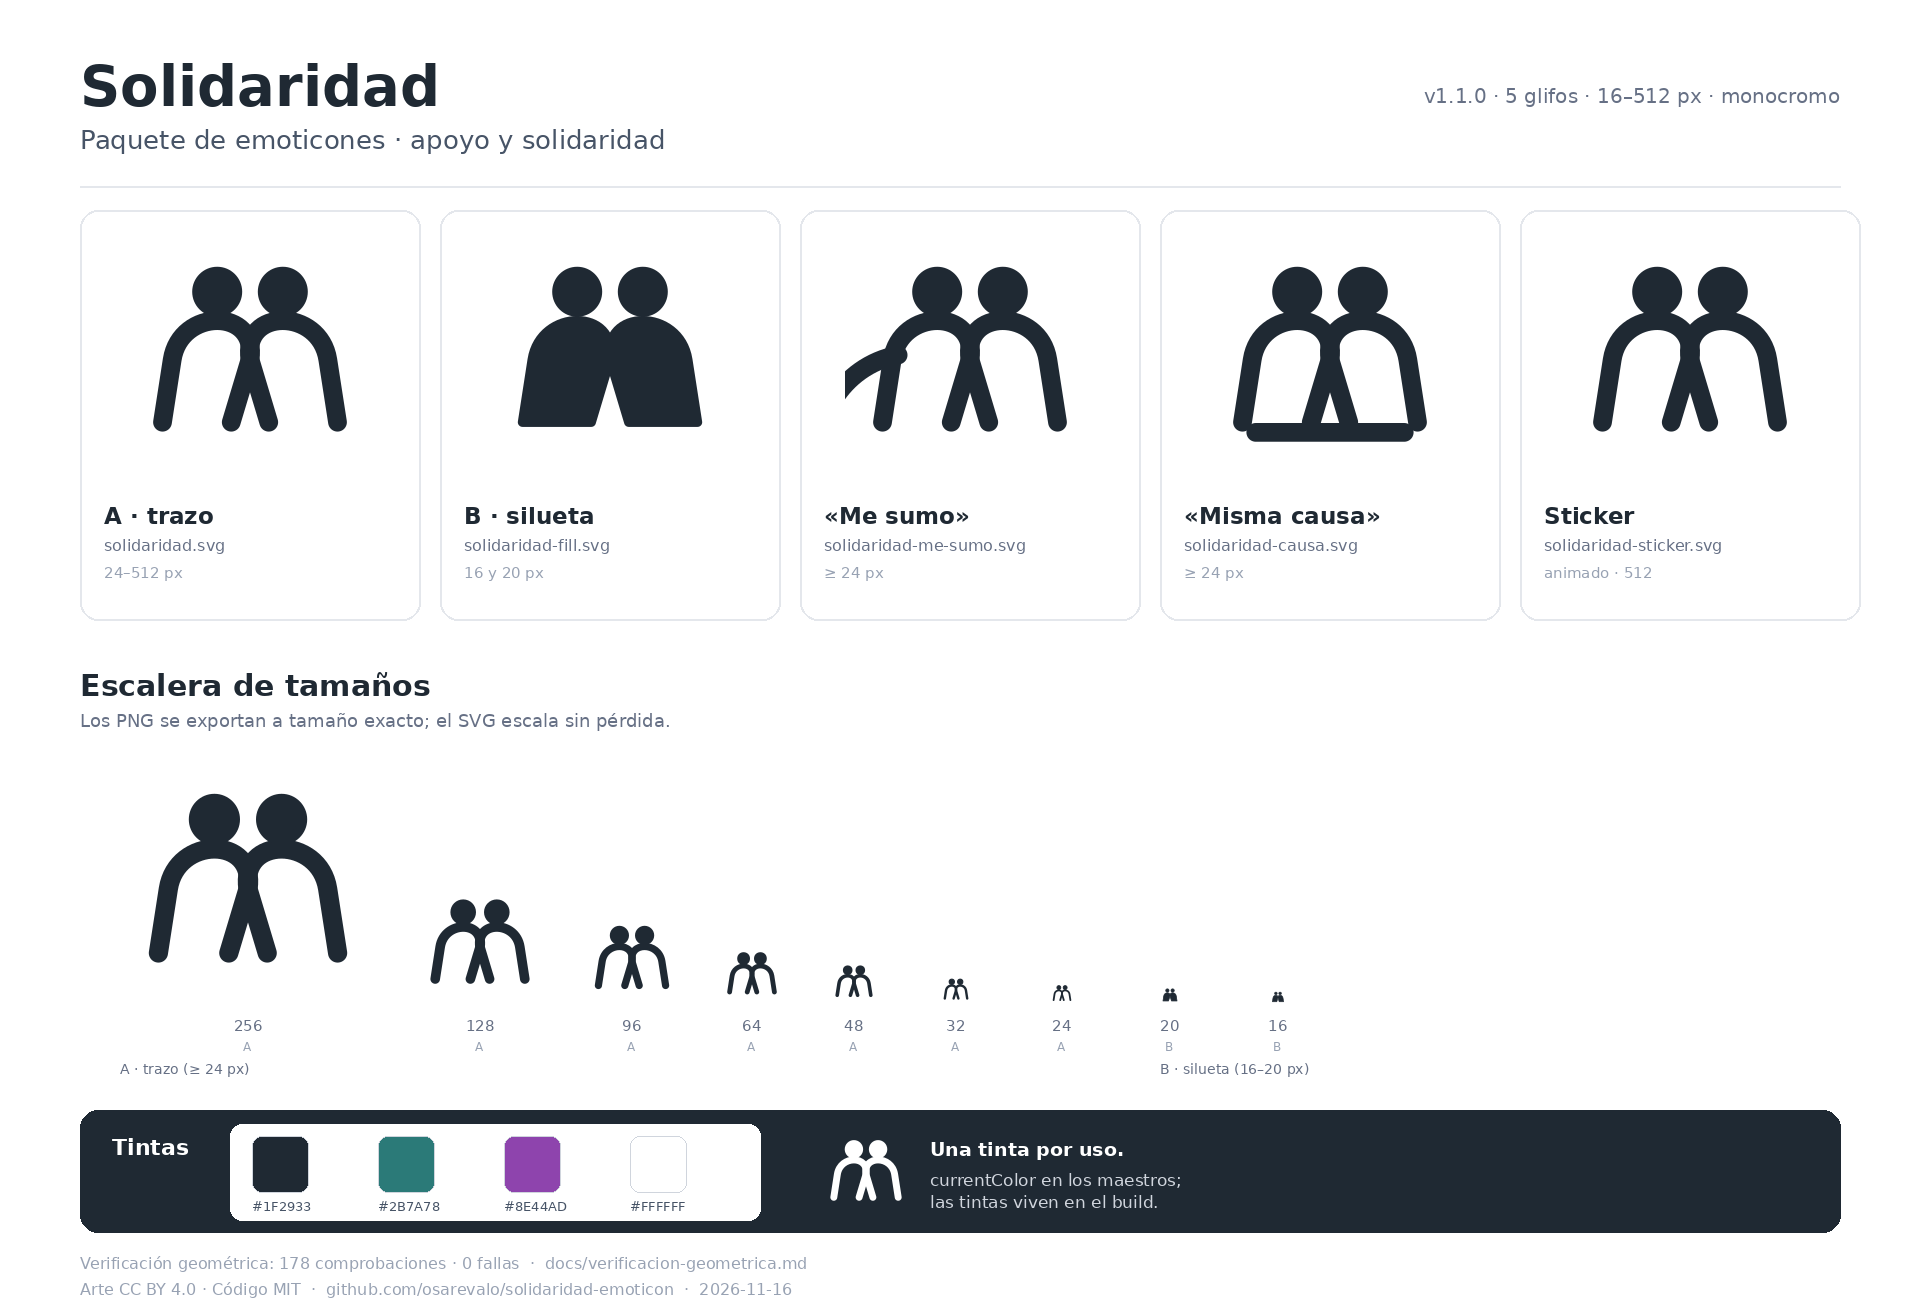
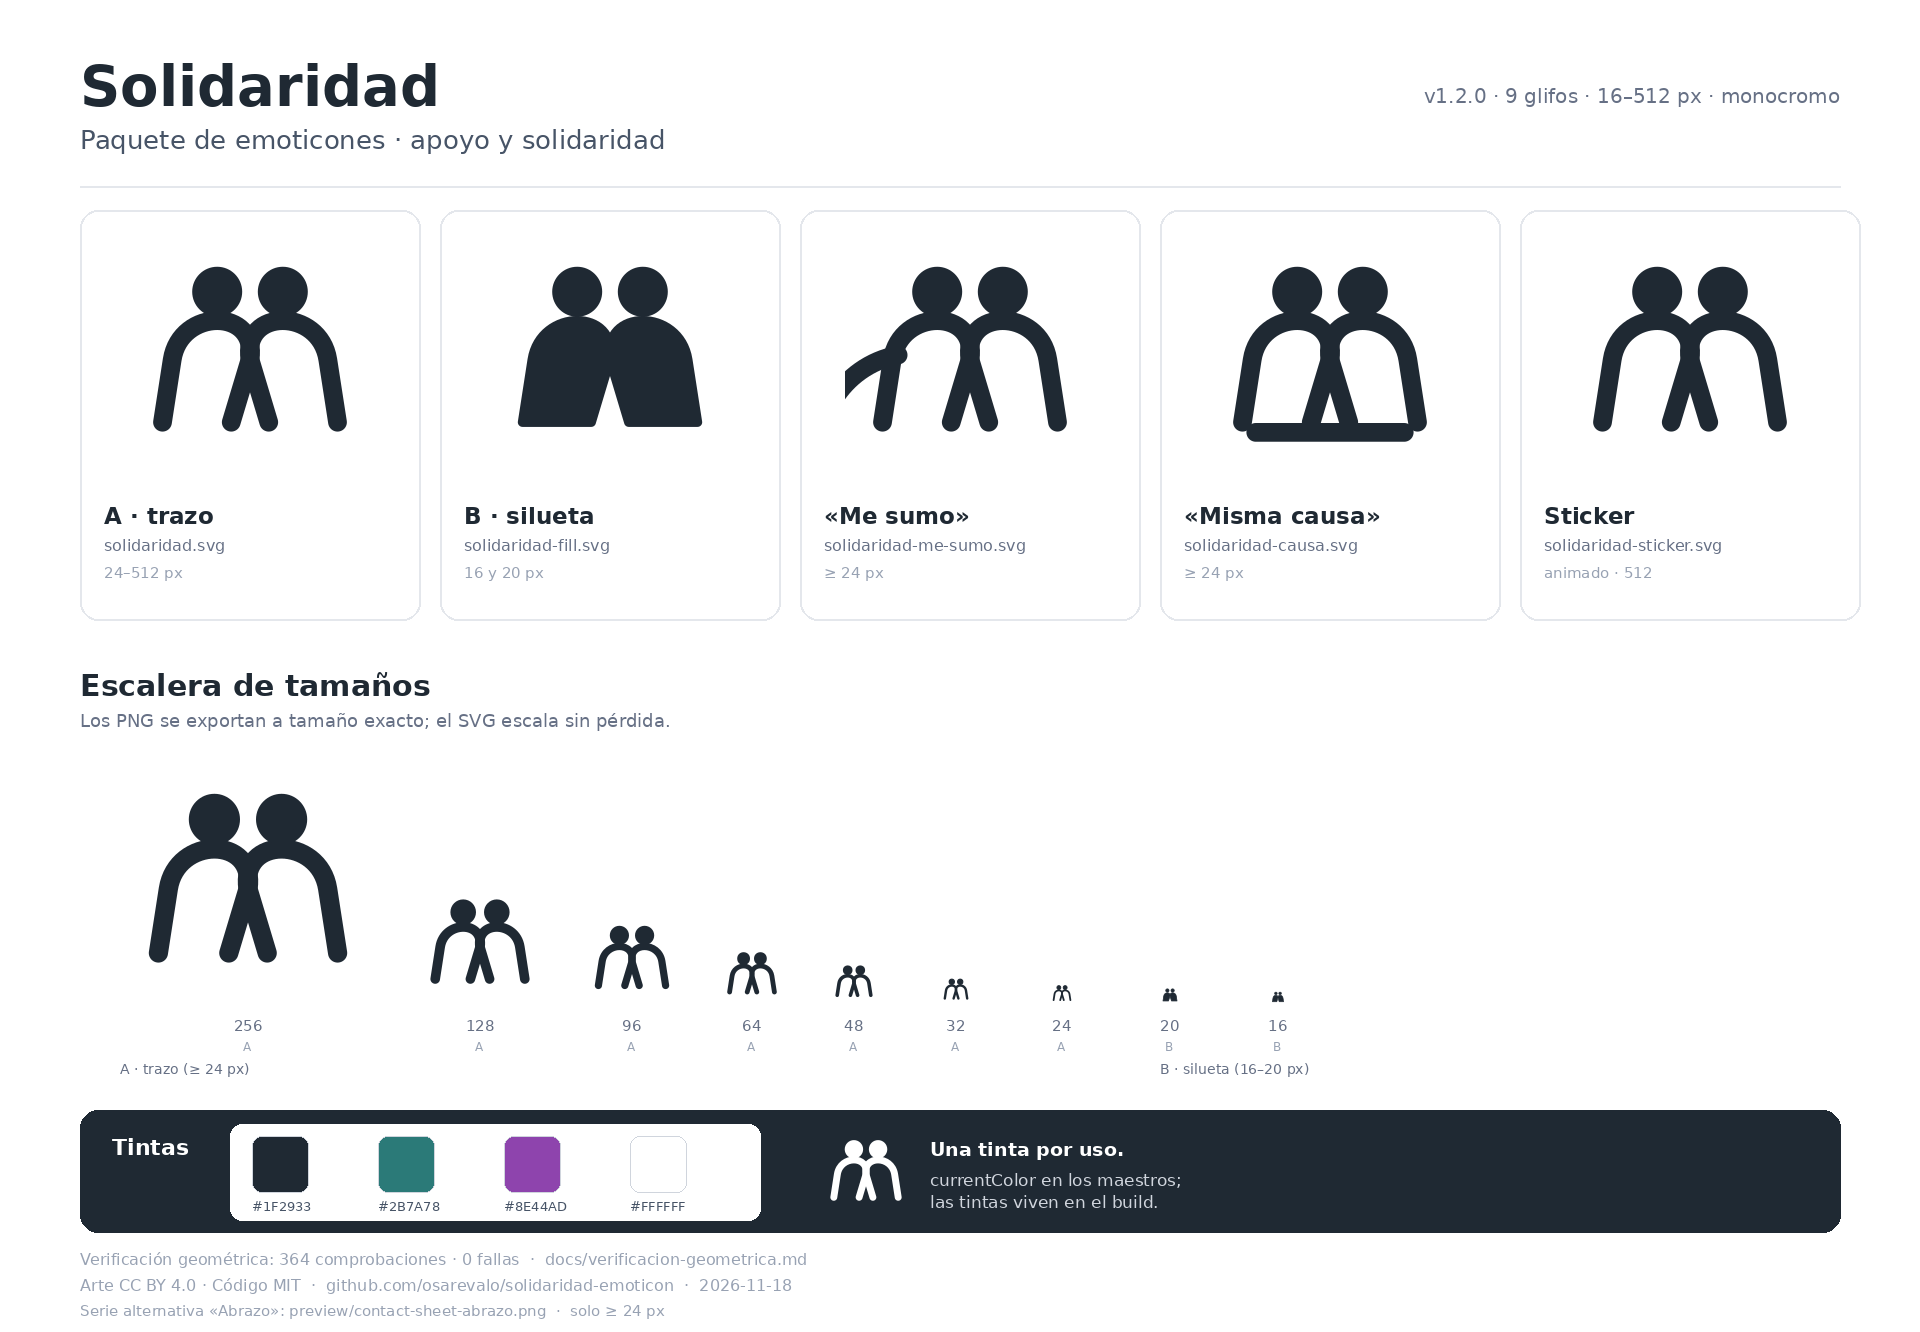
Add/update preview (v1.2.0 Abrazo)

diff --git a/preview/preview.html b/preview/preview.html
@@ -75,9 +75,9 @@
     <h1>Solidaridad</h1>
     <p class="lead">«Me solidarizo con vos» · apoyo y solidaridad, sin caridad desde arriba.</p>
     <div class="chips">
-      <span class="chip">5 glifos</span><span class="chip">SVG maestro 32 × 32</span>
+      <span class="chip">9 glifos</span><span class="chip">SVG maestro 32 × 32</span>
       <span class="chip">PNG 16–512 px</span><span class="chip">monocromo · currentColor</span>
-      <span class="chip">sticker animado</span><span class="chip">178 comprobaciones · 0 fallas</span>
+      <span class="chip">sticker animado</span><span class="chip">serie Abrazo</span><span class="chip">364 comprobaciones · 0 fallas</span>
       <span class="chip">arte CC BY 4.0</span><span class="chip">código MIT</span>
     </div>
   </header>
@@ -271,6 +271,132 @@
   </section>
 
   <section>
+    <h2>Serie alternativa · Abrazo</h2>
+    <p class="sub">Brazo por encima del hombro, con la mano al otro lado. Una máscara knockout separa el brazo del cuerpo sin usar un segundo color. Solo desde 24 px: a 16/20 se usa la serie original.</p>
+    <div class="grid">
+        <article class="card">
+          <div class="glyph"><svg style="width:128px;height:128px;" xmlns="http://www.w3.org/2000/svg" viewBox="0 0 32 32" fill="none" role="img" aria-label="Abrazo de apoyo">
+  <defs>
+    <mask id="abzMask" maskUnits="userSpaceOnUse" x="0" y="0" width="32" height="32">
+      <rect x="0" y="0" width="32" height="32" fill="#fff"/>
+      <path d="M15.0 17.1 C18.0 13.4 22.9 13.0 26.6 15.4" fill="none" stroke="#000"
+            stroke-width="4.8" stroke-linecap="round" stroke-linejoin="round"/>
+      <circle cx="26.6" cy="15.4" r="3.1" fill="#000"/>
+    </mask>
+  </defs>
+  <g stroke="currentColor" stroke-width="2.4" stroke-linecap="round" stroke-linejoin="round" mask="url(#abzMask)">
+    <path d="M27.2 25.5 L25.96 17.5 C24.93 10.83 14.93 10.83 16 17.5 L18.4 25.5"/>
+    <circle cx="20.2" cy="8.8" r="2.6" fill="currentColor" stroke-width="1.2"/>
+  </g>
+  <g stroke="currentColor" stroke-width="2.4" stroke-linecap="round" stroke-linejoin="round">
+    <path d="M15.0 17.1 C18.0 13.4 22.9 13.0 26.6 15.4" fill="none"/>
+    <circle cx="26.6" cy="15.4" r="1.7" fill="currentColor" stroke="none"/>
+  </g>
+  <g stroke="currentColor" stroke-width="2.4" stroke-linecap="round" stroke-linejoin="round">
+    <path d="M4.8 25.5 L6.04 17.5 C7.07 10.83 17.07 10.83 16 17.5 L13.6 25.5"/>
+    <circle cx="11.8" cy="8.8" r="2.6" fill="currentColor" stroke-width="1.2"/>
+  </g>
+</svg></div>
+          <h3>Abrazo</h3>
+          <code>abrazo.svg</code>
+          <p class="muted">brazo por encima del hombro · ≥ 24 px</p>
+        </article>
+        <article class="card">
+          <div class="glyph"><svg style="width:128px;height:128px;" xmlns="http://www.w3.org/2000/svg" viewBox="0 0 32 32" fill="none" role="img" aria-label="Abrazo, me sumo">
+  <defs>
+    <mask id="abzMsMask" maskUnits="userSpaceOnUse" x="0" y="0" width="32" height="32">
+      <rect x="0" y="0" width="32" height="32" fill="#fff"/>
+      <path d="M15.0 17.1 C18.0 13.4 22.9 13.0 26.6 15.4" fill="none" stroke="#000"
+            stroke-width="4.8" stroke-linecap="round" stroke-linejoin="round"/>
+      <circle cx="26.6" cy="15.4" r="3.1" fill="#000"/>
+    </mask>
+  </defs>
+  <g stroke="currentColor" stroke-width="2.4" stroke-linecap="round" stroke-linejoin="round" mask="url(#abzMsMask)">
+    <path d="M27.2 25.5 L25.96 17.5 C24.93 10.83 14.93 10.83 16 17.5 L18.4 25.5"/>
+    <circle cx="20.2" cy="8.8" r="2.6" fill="currentColor" stroke-width="1.2"/>
+  </g>
+  <g stroke="currentColor" stroke-width="2.4" stroke-linecap="round" stroke-linejoin="round">
+    <path d="M15.0 17.1 C18.0 13.4 22.9 13.0 26.6 15.4" fill="none"/>
+    <circle cx="26.6" cy="15.4" r="1.7" fill="currentColor" stroke="none"/>
+  </g>
+  <g stroke="currentColor" stroke-width="2.4" stroke-linecap="round" stroke-linejoin="round">
+    <path d="M4.8 25.5 L6.04 17.5 C7.07 10.83 17.07 10.83 16 17.5 L13.6 25.5"/>
+    <circle cx="11.8" cy="8.8" r="2.6" fill="currentColor" stroke-width="1.2"/>
+    <path d="M-1.4 22.5 C0.3 19.8 3.1 17.6 6.8 16.9"/>
+  </g>
+</svg></div>
+          <h3>Abrazo · «me sumo»</h3>
+          <code>abrazo-me-sumo.svg</code>
+          <p class="muted">alguien más se acerca · ≥ 24 px</p>
+        </article>
+        <article class="card">
+          <div class="glyph"><svg style="width:128px;height:128px;" xmlns="http://www.w3.org/2000/svg" viewBox="0 0 32 32" fill="none" role="img" aria-label="Abrazo, misma causa">
+  <defs>
+    <mask id="abzCausaMask" maskUnits="userSpaceOnUse" x="0" y="0" width="32" height="32">
+      <rect x="0" y="0" width="32" height="32" fill="#fff"/>
+      <path d="M15.0 17.1 C18.0 13.4 22.9 13.0 26.6 15.4" fill="none" stroke="#000"
+            stroke-width="4.8" stroke-linecap="round" stroke-linejoin="round"/>
+      <circle cx="26.6" cy="15.4" r="3.1" fill="#000"/>
+    </mask>
+  </defs>
+  <g stroke="currentColor" stroke-width="2.4" stroke-linecap="round" stroke-linejoin="round" mask="url(#abzCausaMask)">
+    <path d="M27.2 25.5 L25.96 17.5 C24.93 10.83 14.93 10.83 16 17.5 L18.4 25.5"/>
+    <circle cx="20.2" cy="8.8" r="2.6" fill="currentColor" stroke-width="1.2"/>
+  </g>
+  <g stroke="currentColor" stroke-width="2.4" stroke-linecap="round" stroke-linejoin="round">
+    <path d="M15.0 17.1 C18.0 13.4 22.9 13.0 26.6 15.4" fill="none"/>
+    <circle cx="26.6" cy="15.4" r="1.7" fill="currentColor" stroke="none"/>
+  </g>
+  <g stroke="currentColor" stroke-width="2.4" stroke-linecap="round" stroke-linejoin="round">
+    <path d="M4.8 25.5 L6.04 17.5 C7.07 10.83 17.07 10.83 16 17.5 L13.6 25.5"/>
+    <circle cx="11.8" cy="8.8" r="2.6" fill="currentColor" stroke-width="1.2"/>
+    <path d="M6.5 26.8 H25.5"/>
+  </g>
+</svg></div>
+          <h3>Abrazo · «misma causa»</h3>
+          <code>abrazo-causa.svg</code>
+          <p class="muted">misma base / misma causa · ≥ 24 px</p>
+        </article>
+        <article class="card">
+          <div class="glyph"><svg style="width:128px;height:128px;" xmlns="http://www.w3.org/2000/svg" viewBox="0 0 32 32" fill="none" role="img" aria-label="Abrazo mutuo">
+  <defs>
+    <mask id="abzMutL" maskUnits="userSpaceOnUse" x="0" y="0" width="32" height="32">
+      <rect x="0" y="0" width="32" height="32" fill="#fff"/>
+      <path d="M17.0 17.1 C14.0 13.4 9.1 13.0 5.4 15.4" fill="none" stroke="#000"
+            stroke-width="4.8" stroke-linecap="round" stroke-linejoin="round"/>
+      <circle cx="5.4" cy="15.4" r="3.1" fill="#000"/>
+    </mask>
+    <mask id="abzMutR" maskUnits="userSpaceOnUse" x="0" y="0" width="32" height="32">
+      <rect x="0" y="0" width="32" height="32" fill="#fff"/>
+      <path d="M15.0 17.1 C18.0 13.4 22.9 13.0 26.6 15.4" fill="none" stroke="#000"
+            stroke-width="4.8" stroke-linecap="round" stroke-linejoin="round"/>
+      <circle cx="26.6" cy="15.4" r="3.1" fill="#000"/>
+    </mask>
+  </defs>
+  <g stroke="currentColor" stroke-width="2.4" stroke-linecap="round" stroke-linejoin="round" mask="url(#abzMutL)">
+    <path d="M4.8 25.5 L6.04 17.5 C7.07 10.83 17.07 10.83 16 17.5 L13.6 25.5"/>
+    <circle cx="11.8" cy="8.8" r="2.6" fill="currentColor" stroke-width="1.2"/>
+  </g>
+  <g stroke="currentColor" stroke-width="2.4" stroke-linecap="round" stroke-linejoin="round" mask="url(#abzMutR)">
+    <path d="M27.2 25.5 L25.96 17.5 C24.93 10.83 14.93 10.83 16 17.5 L18.4 25.5"/>
+    <circle cx="20.2" cy="8.8" r="2.6" fill="currentColor" stroke-width="1.2"/>
+  </g>
+  <g stroke="currentColor" stroke-width="2.4" stroke-linecap="round" stroke-linejoin="round">
+    <path d="M15.0 17.1 C18.0 13.4 22.9 13.0 26.6 15.4" fill="none"/>
+    <circle cx="26.6" cy="15.4" r="1.7" fill="currentColor" stroke="none"/>
+    <path d="M17.0 17.1 C14.0 13.4 9.1 13.0 5.4 15.4" fill="none"/>
+    <circle cx="5.4" cy="15.4" r="1.7" fill="currentColor" stroke="none"/>
+  </g>
+</svg></div>
+          <h3>Abrazo mutuo</h3>
+          <code>abrazo-mutuo.svg</code>
+          <p class="muted">los dos brazos por encima · ≥ 24 px</p>
+        </article>
+    </div>
+    <p class="sub" style="margin-top:14px">Hoja de contactos de la serie: <a href="contact-sheet-abrazo.png">contact-sheet-abrazo.png</a>.</p>
+  </section>
+
+  <section>
     <h2>Sticker animado</h2>
     <p class="sub">Las figuras entran desde los bordes, chocan los hombros con un overshoot de 0.6 u y se asientan en 550 ms.</p>
     <div class="sticker">
@@ -353,8 +479,8 @@
   </section>
 
   <footer>
-    <p><strong>Solidaridad v1.1.0</strong> · paquete generado el 2026-11-16 ·
-    <span class="ok">178 comprobaciones PASA · 0 FALLA</span></p>
+    <p><strong>Solidaridad v1.2.0</strong> · paquete generado el 2026-11-18 ·
+    <span class="ok">364 comprobaciones PASA · 0 FALLA</span></p>
     <p>Contenido: <code>src/</code> (maestros), <code>dist/png/</code> (4 tintas), <code>dist/sticker/</code>,
     <code>docs/</code>, <code>preview/</code>. Léase también <code>DOCUMENTO-MAESTRO.md</code> y <code>README.md</code>.</p>
     <p>Licencias: arte y documentación <a href="../LICENSE-ARTWORK">CC BY 4.0</a> · código
